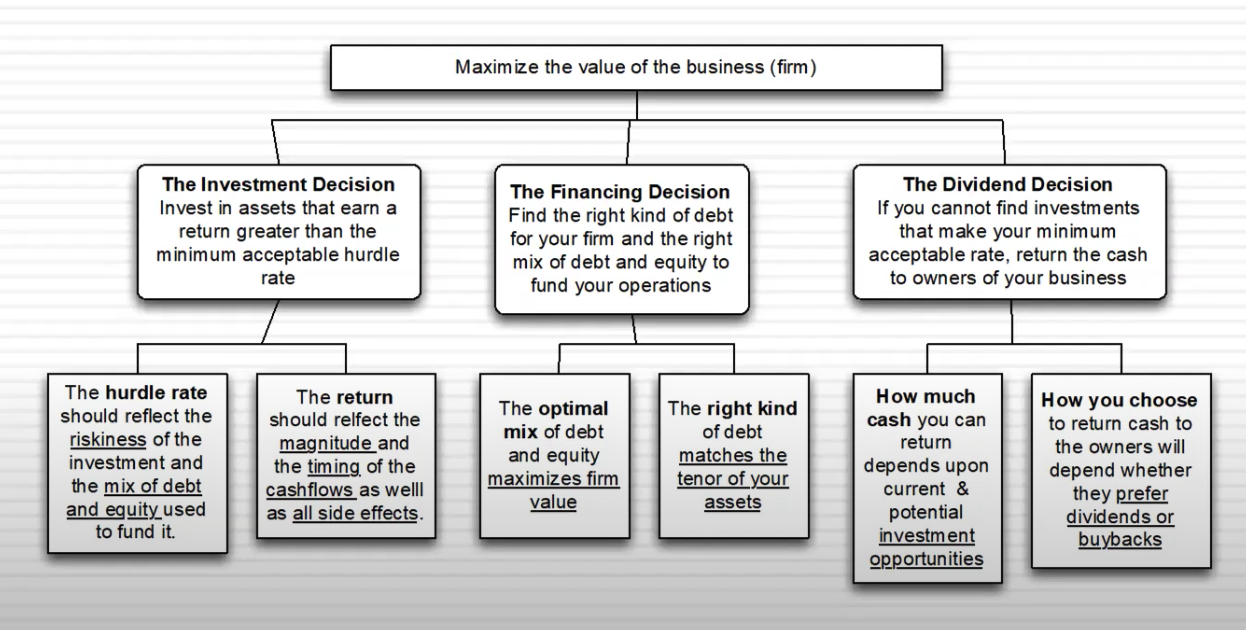
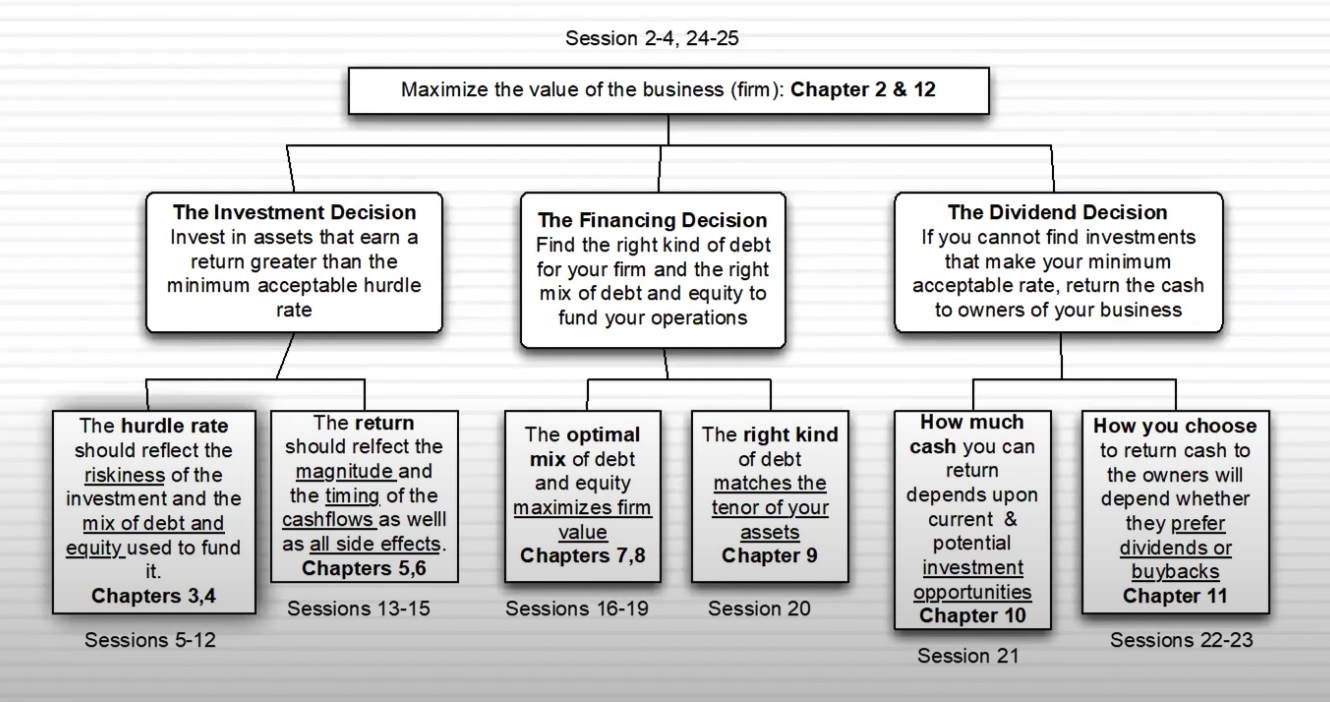
updates to chapters

diff --git a/_posts/2022-01-11-cheatsheet-corp-finance.md b/_posts/2022-01-11-cheatsheet-corp-finance.md
@@ -7,9 +7,13 @@ author:
 - Jovan Sardinha
 ---
 
+link to playlist: [link](https://www.youtube.com/playlist?list=PLUkh9m2BorqkKMOj0LkU8JCeDlk4k8P-A)
+
 ![index](/assets/post_assets/cheatsheet-corp-finance/index.png)
 
 ![index2](/assets/post_assets/cheatsheet-corp-finance/index2.png)
+
+![index3](/assets/post_assets/cheatsheet-corp-finance/index3.png)
 
 ## 1. The Objective Decision
 
